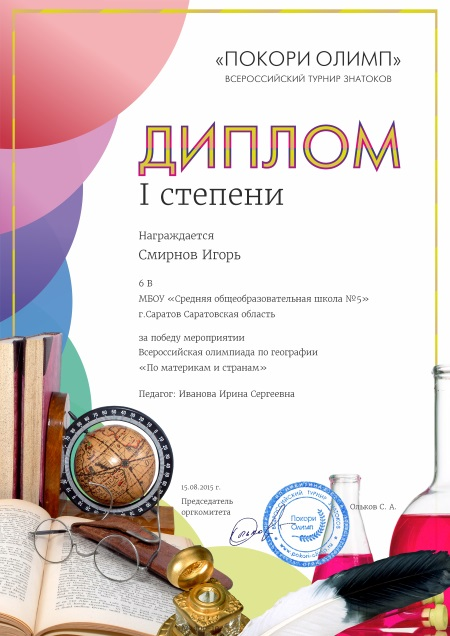
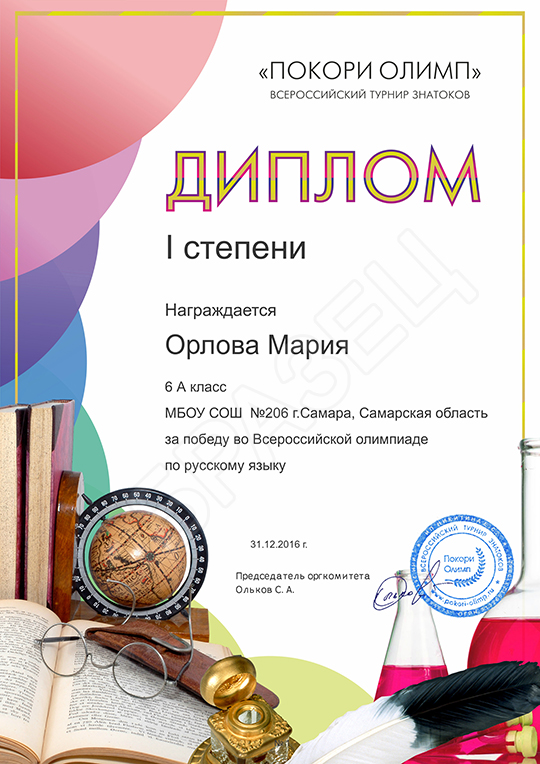
примеры дипломов

diff --git a/app/models/reward.rb b/app/models/reward.rb
@@ -2,341 +2,37 @@ class Reward < ActiveRecord::Base
   belongs_to :contest
   belongs_to :user
 
-  def diploma_number1(position, prize)
+  def diploma_number1(position, prize, diploma_number)
     dnum = rand(100)
-    image = MiniMagick::Image.open("./public/original_diplomas/1.jpg")
+    image = MiniMagick::Image.open("./public/original_diplomas/#{diploma_number}.jpg")
     image.resize "1654x2339"
     image.format "jpg"
     image.combine_options do |c|
-      c.gravity 'North'
-      c.fill '#f37a1f'
+      c.gravity 'NorthWest'
+      c.fill '#383838'
       c.pointsize '102'
-      c.draw "text 0,600 '#{prize}'"
+      c.draw "text 505,700 '#{prize}'"
 
       c.fill '#383838'
-      c.pointsize '62'
-      c.draw "text 0,#{position} 'Награждается'"
-      c.pointsize '92'
-      c.draw "text 0,#{position+90} '#{self.name}'"
-      c.pointsize '50'
-      c.draw "text 0,#{position+240} '#{self.age}'"
-      c.pointsize '50'
-      c.draw "text 0,#{position+320} '#{self.institution}'"
-      c.pointsize '50'
-      c.draw "text 0,#{position+400} 'за победу во Всероссийской олимпиаде'"
-      c.pointsize '50'
-      c.draw "text 0,#{position+480} 'по русскому языку'"
-      c.pointsize '40'
-      c.draw "text -153,1650 '#{Russian::strftime(self.created_at, "%d.%m.%Y г.")}'"
-      c.pointsize '36'
-      c.draw "text 0,2190 '№ #{self.id}'"
-    end
-    output_diploma = "./public/diplomas/diploma#{dnum}.jpg"
-    image.write output_diploma
-    return "/diplomas/diploma#{dnum}.jpg"
-  end
-
-  def diploma_number2(position, prize)
-    dnum = rand(100)
-    image = MiniMagick::Image.open("./public/original_diplomas/2.jpg")
-    image.resize "1654x2339"
-    image.format "jpg"
-    image.combine_options do |c|
-      c.gravity 'North'
-      c.fill '#ff1e4a'
-      c.pointsize '102'
-      c.draw "text 0,500 '#{prize}'"
-
-      c.fill '#383838'
-      c.pointsize '62'
-      c.draw "text 0,#{position} 'Награждается'"
-      c.pointsize '92'
-      c.draw "text 0,#{position+90} '#{self.name}'"
-      c.pointsize '50'
-      c.draw "text 0,#{position+240} '#{self.age}'"
-      c.pointsize '50'
-      c.draw "text 0,#{position+320} '#{self.institution}'"
-      c.pointsize '50'
-      c.draw "text 0,#{position+400} 'за победу во Всероссийской олимпиаде'"
-      c.pointsize '50'
-      c.draw "text 0,#{position+480} 'по русскому языку'"
-      c.pointsize '40'
-      c.draw "text 60,1740 '#{Russian::strftime(self.created_at, "%d.%m.%Y г.")}'"
-      c.pointsize '36'
-      c.draw "text 0,2190 '№ #{self.id}'"
-    end
-    output_diploma = "./public/diplomas/diploma#{dnum}.jpg"
-    image.write output_diploma
-    return "/diplomas/diploma#{dnum}.jpg"
-  end
-
-  def diploma_number3(position, prize)
-    dnum = rand(100)
-    image = MiniMagick::Image.open("./public/original_diplomas/3.jpg")
-    image.resize "1654x2339"
-    image.format "jpg"
-    image.combine_options do |c|
-      c.gravity 'North'
-      c.fill '#0096cc'
-      c.pointsize '102'
-      c.draw "text 0,580 '#{prize}'"
-
-      c.fill '#383838'
-      c.pointsize '62'
-      c.draw "text 0,#{position} 'Награждается'"
-      c.pointsize '92'
-      c.draw "text 0,#{position+90} '#{self.name}'"
-      c.pointsize '50'
-      c.draw "text 0,#{position+240} '#{self.age}'"
-      c.pointsize '50'
-      c.draw "text 0,#{position+320} '#{self.institution}'"
-      c.pointsize '50'
-      c.draw "text 0,#{position+400} 'за победу во Всероссийской олимпиаде'"
-      c.pointsize '50'
-      c.draw "text 0,#{position+480} 'по русскому языку'"
-      c.pointsize '40'
-      c.draw "text 36,1740 '#{Russian::strftime(self.created_at, "%d.%m.%Y г.")}'"
-      c.pointsize '36'
-      c.draw "text 30,2250 '№ #{self.id}'"
-    end
-    output_diploma = "./public/diplomas/diploma#{dnum}.jpg"
-    image.write output_diploma
-    return "/diplomas/diploma#{dnum}.jpg"
-  end
-
-  def diploma_number4(position, prize)
-    dnum = rand(100)
-    image = MiniMagick::Image.open("./public/original_diplomas/4.jpg")
-    image.resize "1654x2339"
-    image.format "jpg"
-    image.combine_options do |c|
-      c.gravity 'North'
-      c.fill '#00bdc3'
-      c.pointsize '102'
-      c.draw "text 0,810 '#{prize}'"
-
-      c.fill '#383838'
-      c.pointsize '62'
-      c.draw "text 0,#{position} 'Награждается'"
-      c.pointsize '92'
-      c.draw "text 0,#{position+90} '#{self.name}'"
-      c.pointsize '50'
-      c.draw "text 0,#{position+240} '#{self.age}'"
-      c.pointsize '50'
-      c.draw "text 0,#{position+320} '#{self.institution}'"
-      c.pointsize '50'
-      c.draw "text 0,#{position+400} 'за победу во Всероссийской олимпиаде'"
-      c.pointsize '50'
-      c.draw "text 0,#{position+480} 'по русскому языку'"
-      c.pointsize '40'
-      c.draw "text 39,1800 '#{Russian::strftime(self.created_at, "%d.%m.%Y г.")}'"
-      c.pointsize '36'
-      c.draw "text 0,2190 '№ #{self.id}'"
-    end
-    output_diploma = "./public/diplomas/diploma#{dnum}.jpg"
-    image.write output_diploma
-    return "/diplomas/diploma#{dnum}.jpg"
-  end
-
-  def diploma_number5(position, prize)
-    dnum = rand(100)
-    image = MiniMagick::Image.open("./public/original_diplomas/5.jpg")
-    image.resize "1654x2339"
-    image.format "jpg"
-    image.combine_options do |c|
-      c.gravity 'North'
-      c.fill '#fc3400'
-      c.pointsize '102'
-      c.draw "text 0,510 '#{prize}'"
-
-      c.fill '#383838'
-      c.pointsize '62'
-      c.draw "text 0,#{position} 'Награждается'"
-      c.pointsize '92'
-      c.draw "text 0,#{position+90} '#{self.name}'"
-      c.pointsize '50'
-      c.draw "text 0,#{position+240} '#{self.age}'"
-      c.pointsize '50'
-      c.draw "text 0,#{position+320} '#{self.institution}'"
-      c.pointsize '50'
-      c.draw "text 0,#{position+400} 'за победу во Всероссийской олимпиаде'"
-      c.pointsize '50'
-      c.draw "text 0,#{position+480} 'по русскому языку'"
-      c.pointsize '40'
-      c.draw "text -107,1650 '#{Russian::strftime(self.created_at, "%d.%m.%Y г.")}'"
-      c.pointsize '36'
-      c.draw "text 0,2190 '№ #{self.id}'"
-    end
-    output_diploma = "./public/diplomas/diploma#{dnum}.jpg"
-    image.write output_diploma
-    return "/diplomas/diploma#{dnum}.jpg"
-  end
-
-  def diploma_number6(position, prize)
-    dnum = rand(100)
-    image = MiniMagick::Image.open("./public/original_diplomas/6.jpg")
-    image.resize "1654x2339"
-    image.format "jpg"
-    image.combine_options do |c|
-      c.gravity 'North'
-      c.fill '#fc3400'
-      c.pointsize '102'
-      c.draw "text 0,510 '#{prize}'"
-
-      c.fill '#383838'
-      c.pointsize '62'
-      c.draw "text 0,#{position} 'Награждается'"
-      c.pointsize '92'
-      c.draw "text 0,#{position+90} '#{self.name}'"
-      c.pointsize '50'
-      c.draw "text 0,#{position+240} '#{self.age}'"
-      c.pointsize '50'
-      c.draw "text 0,#{position+320} '#{self.institution}'"
-      c.pointsize '50'
-      c.draw "text 0,#{position+400} 'за победу во Всероссийской олимпиаде'"
-      c.pointsize '50'
-      c.draw "text 0,#{position+480} 'по русскому языку'"
-      c.pointsize '40'
-      c.draw "text 48,1550 '#{Russian::strftime(self.created_at, "%d.%m.%Y г.")}'"
-      c.pointsize '36'
-      c.draw "text 0,2250 '№ #{self.id}'"
-    end
-    output_diploma = "./public/diplomas/diploma#{dnum}.jpg"
-    image.write output_diploma
-    return "/diplomas/diploma#{dnum}.jpg"
-  end
-
-  def diploma_number7(position, prize)
-    dnum = rand(100)
-    image = MiniMagick::Image.open("./public/original_diplomas/7.jpg")
-    image.resize "1654x2339"
-    image.format "jpg"
-    image.combine_options do |c|
-      c.gravity 'North'
-      c.fill '#fc3400'
-      c.pointsize '102'
-      c.draw "text 0,510 '#{prize}'"
-
-      c.fill '#383838'
-      c.pointsize '62'
-      c.draw "text 0,#{position} 'Награждается'"
-      c.pointsize '92'
-      c.draw "text 0,#{position+90} '#{self.name}'"
-      c.pointsize '50'
-      c.draw "text 0,#{position+240} '#{self.age}'"
-      c.pointsize '50'
-      c.draw "text 0,#{position+320} '#{self.institution}'"
-      c.pointsize '50'
-      c.draw "text 0,#{position+400} 'за победу во Всероссийской олимпиаде'"
-      c.pointsize '50'
-      c.draw "text 0,#{position+480} 'по русскому языку'"
-      c.pointsize '40'
-      c.draw "text -53,1630 '#{Russian::strftime(self.created_at, "%d.%m.%Y г.")}'"
-      c.pointsize '36'
-      c.draw "text -20,2110 '№ #{self.id}'"
-    end
-    output_diploma = "./public/diplomas/diploma#{dnum}.jpg"
-    image.write output_diploma
-    return "/diplomas/diploma#{dnum}.jpg"
-  end
-
-  def diploma_number8(position, prize)
-    dnum = rand(100)
-    image = MiniMagick::Image.open("./public/original_diplomas/8.jpg")
-    image.resize "1654x2339"
-    image.format "jpg"
-    image.combine_options do |c|
-      c.gravity 'North'
-      c.fill '#cf4554'
-      c.pointsize '142'
-      c.draw "text 0,310 '#{prize}'"
-
-      c.fill '#383838'
-      c.pointsize '62'
-      c.draw "text 0,#{position} 'Награждается'"
-      c.pointsize '92'
-      c.draw "text 0,#{position+90} '#{self.name}'"
-      c.pointsize '50'
-      c.draw "text 0,#{position+240} '#{self.age}'"
-      c.pointsize '50'
-      c.draw "text 0,#{position+320} '#{self.institution}'"
-      c.pointsize '50'
-      c.draw "text 0,#{position+400} 'за победу во Всероссийской олимпиаде'"
-      c.pointsize '50'
-      c.draw "text 0,#{position+480} 'по русскому языку'"
-      c.pointsize '40'
-      c.draw "text 58,1640 '#{Russian::strftime(self.created_at, "%d.%m.%Y г.")}'"
-      c.pointsize '36'
-      c.draw "text -20,2265 '№ #{self.id}'"
-    end
-    output_diploma = "./public/diplomas/diploma#{dnum}.jpg"
-    image.write output_diploma
-    return "/diplomas/diploma#{dnum}.jpg"
-  end
-
-  def diploma_number9(position, prize)
-    dnum = rand(100)
-    image = MiniMagick::Image.open("./public/original_diplomas/9.jpg")
-    image.resize "1654x2339"
-    image.format "jpg"
-    image.combine_options do |c|
-      c.gravity 'North'
-      c.fill '#d42465'
-      c.pointsize '142'
-      c.draw "text 0,780 '#{prize}'"
-
-      c.fill '#383838'
-      c.pointsize '62'
-      c.draw "text 0,#{position} 'Награждается'"
-      c.pointsize '92'
-      c.draw "text 0,#{position+90} '#{self.name}'"
-      c.pointsize '50'
-      c.draw "text 0,#{position+240} '#{self.age}'"
-      c.pointsize '50'
-      c.draw "text 0,#{position+320} '#{self.institution}'"
-      c.pointsize '50'
-      c.draw "text 0,#{position+400} 'за победу во Всероссийской олимпиаде'"
-      c.pointsize '50'
-      c.draw "text 0,#{position+480} 'по русскому языку'"
-      c.pointsize '40'
-      c.draw "text -20,1840 '#{Russian::strftime(self.created_at, "%d.%m.%Y г.")}'"
-      c.pointsize '36'
-      c.draw "text 0,2215 '№ #{self.id}'"
-    end
-    output_diploma = "./public/diplomas/diploma#{dnum}.jpg"
-    image.write output_diploma
-    return "/diplomas/diploma#{dnum}.jpg"
-  end
-
-  def diploma_number10(position, prize)
-    dnum = rand(100)
-    image = MiniMagick::Image.open("./public/original_diplomas/10.jpg")
-    image.resize "1654x2339"
-    image.format "jpg"
-    image.combine_options do |c|
-      c.gravity 'North'
-      c.fill '#cf4368'
-      c.pointsize '122'
-      c.draw "text 0,470 '#{prize}'"
-
-      c.fill '#383838'
-      c.pointsize '62'
-      c.draw "text 0,#{position} 'Награждается'"
-      c.pointsize '92'
-      c.draw "text 0,#{position+90} '#{self.name}'"
-      c.pointsize '50'
-      c.draw "text 0,#{position+240} '#{self.age}'"
-      c.pointsize '50'
-      c.draw "text 0,#{position+320} '#{self.institution}'"
-      c.pointsize '50'
-      c.draw "text 0,#{position+400} 'за победу во Всероссийской олимпиаде'"
-      c.pointsize '50'
-      c.draw "text 0,#{position+480} 'по русскому языку'"
-      c.pointsize '40'
-      c.draw "text -278,1810 '#{Russian::strftime(self.created_at, "%d.%m.%Y г.")}'"
-      c.fill '#ffffff'
-      c.pointsize '36'
-      c.draw "text 0,2291 '№ #{self.id}'"
+      c.pointsize '52'
+      c.draw "text 505,#{position} 'Награждается'"
+      c.pointsize '82'
+      c.draw "text 505,#{position+90} '#{self.name}'"
+      c.pointsize '43'
+      c.draw "text 505,#{position+240} '#{self.age}'"
+      c.pointsize '43'
+      c.draw "text 505,#{position+320} '#{self.institution}'"
+      c.pointsize '43'
+      c.draw "text 505,#{position+400} 'за победу во Всероссийской олимпиаде'"
+      c.pointsize '43'
+      c.draw "text 505,#{position+480} 'по русскому языку'"
+      c.pointsize '30'
+      c.draw "text 767,1650 '#{Russian::strftime(self.created_at, "%d.%m.%Y г.")}'"
+      c.pointsize '26'
+      if diploma_number == 10
+        c.fill '#ffffff'
+      end
+      c.draw "text 840,2260 '№ #{self.id}'"
     end
     output_diploma = "./public/diplomas/diploma#{dnum}.jpg"
     image.write output_diploma

diff --git a/app/controllers/rewards_controller.rb b/app/controllers/rewards_controller.rb
@@ -18,29 +18,8 @@ class RewardsController < ApplicationController
       when 3
          prize = 'III степени'
       end
-
-      case @reward.number
-      when 1
-         @output_diploma = @reward.diploma_number1(780, prize)
-      when 2
-         @output_diploma = @reward.diploma_number2(680, prize)
-      when 3
-         @output_diploma = @reward.diploma_number3(770, prize)
-      when 4
-         @output_diploma = @reward.diploma_number4(970, prize)
-      when 5
-         @output_diploma = @reward.diploma_number5(690, prize)
-      when 6
-         @output_diploma = @reward.diploma_number6(690, prize)
-      when 7
-         @output_diploma = @reward.diploma_number7(690, prize)
-      when 8
-         @output_diploma = @reward.diploma_number8(690, prize)
-      when 9
-         @output_diploma = @reward.diploma_number9(980, prize)
-      when 10
-         @output_diploma = @reward.diploma_number10(690, prize)
-      end
+      
+      @output_diploma = @reward.diploma_number1(920, prize, @reward.number)
     end
   end
 
